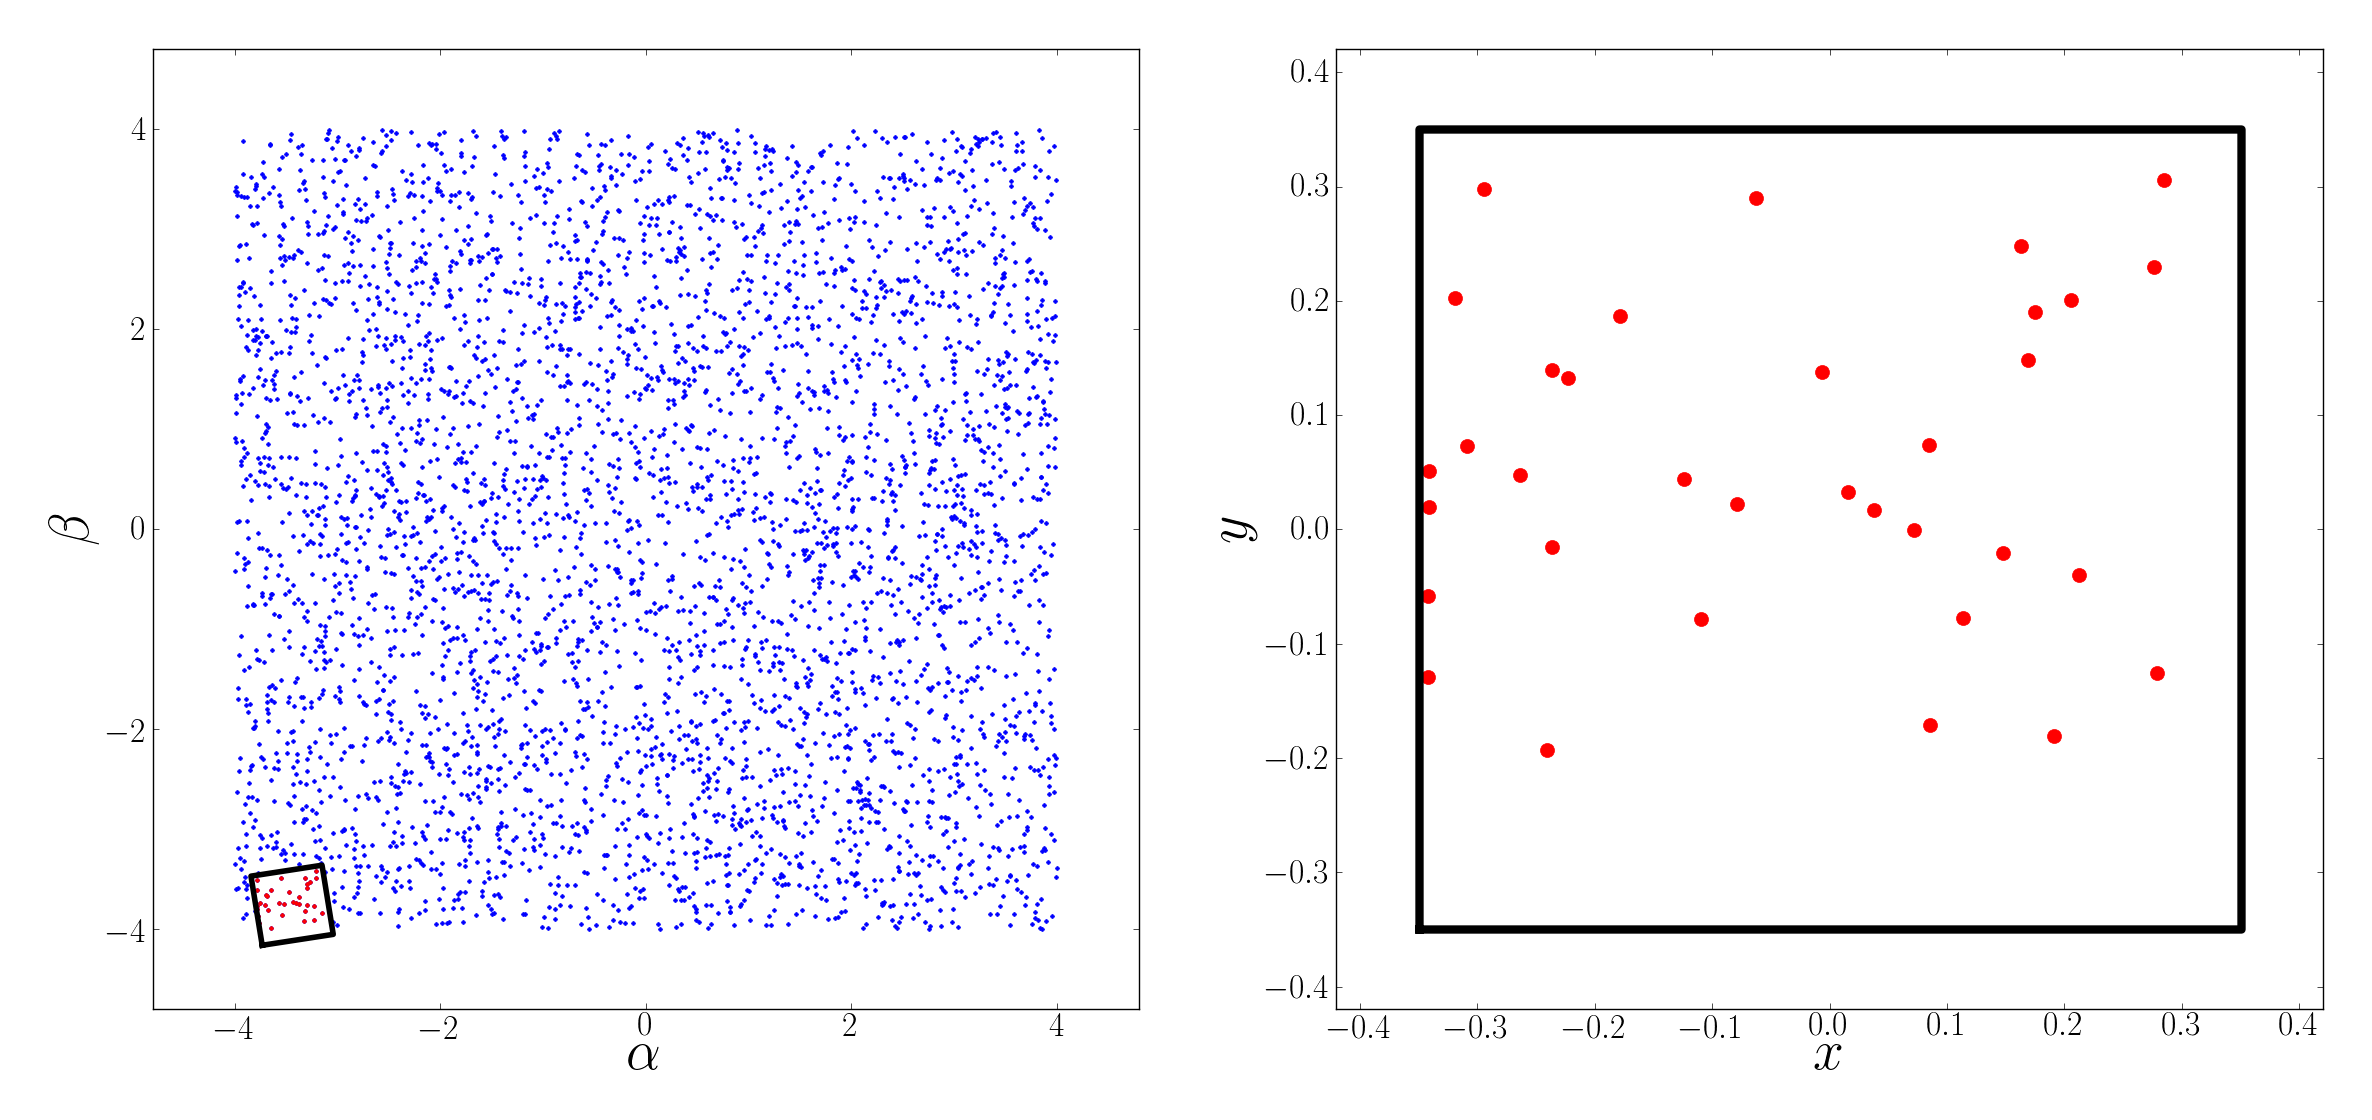
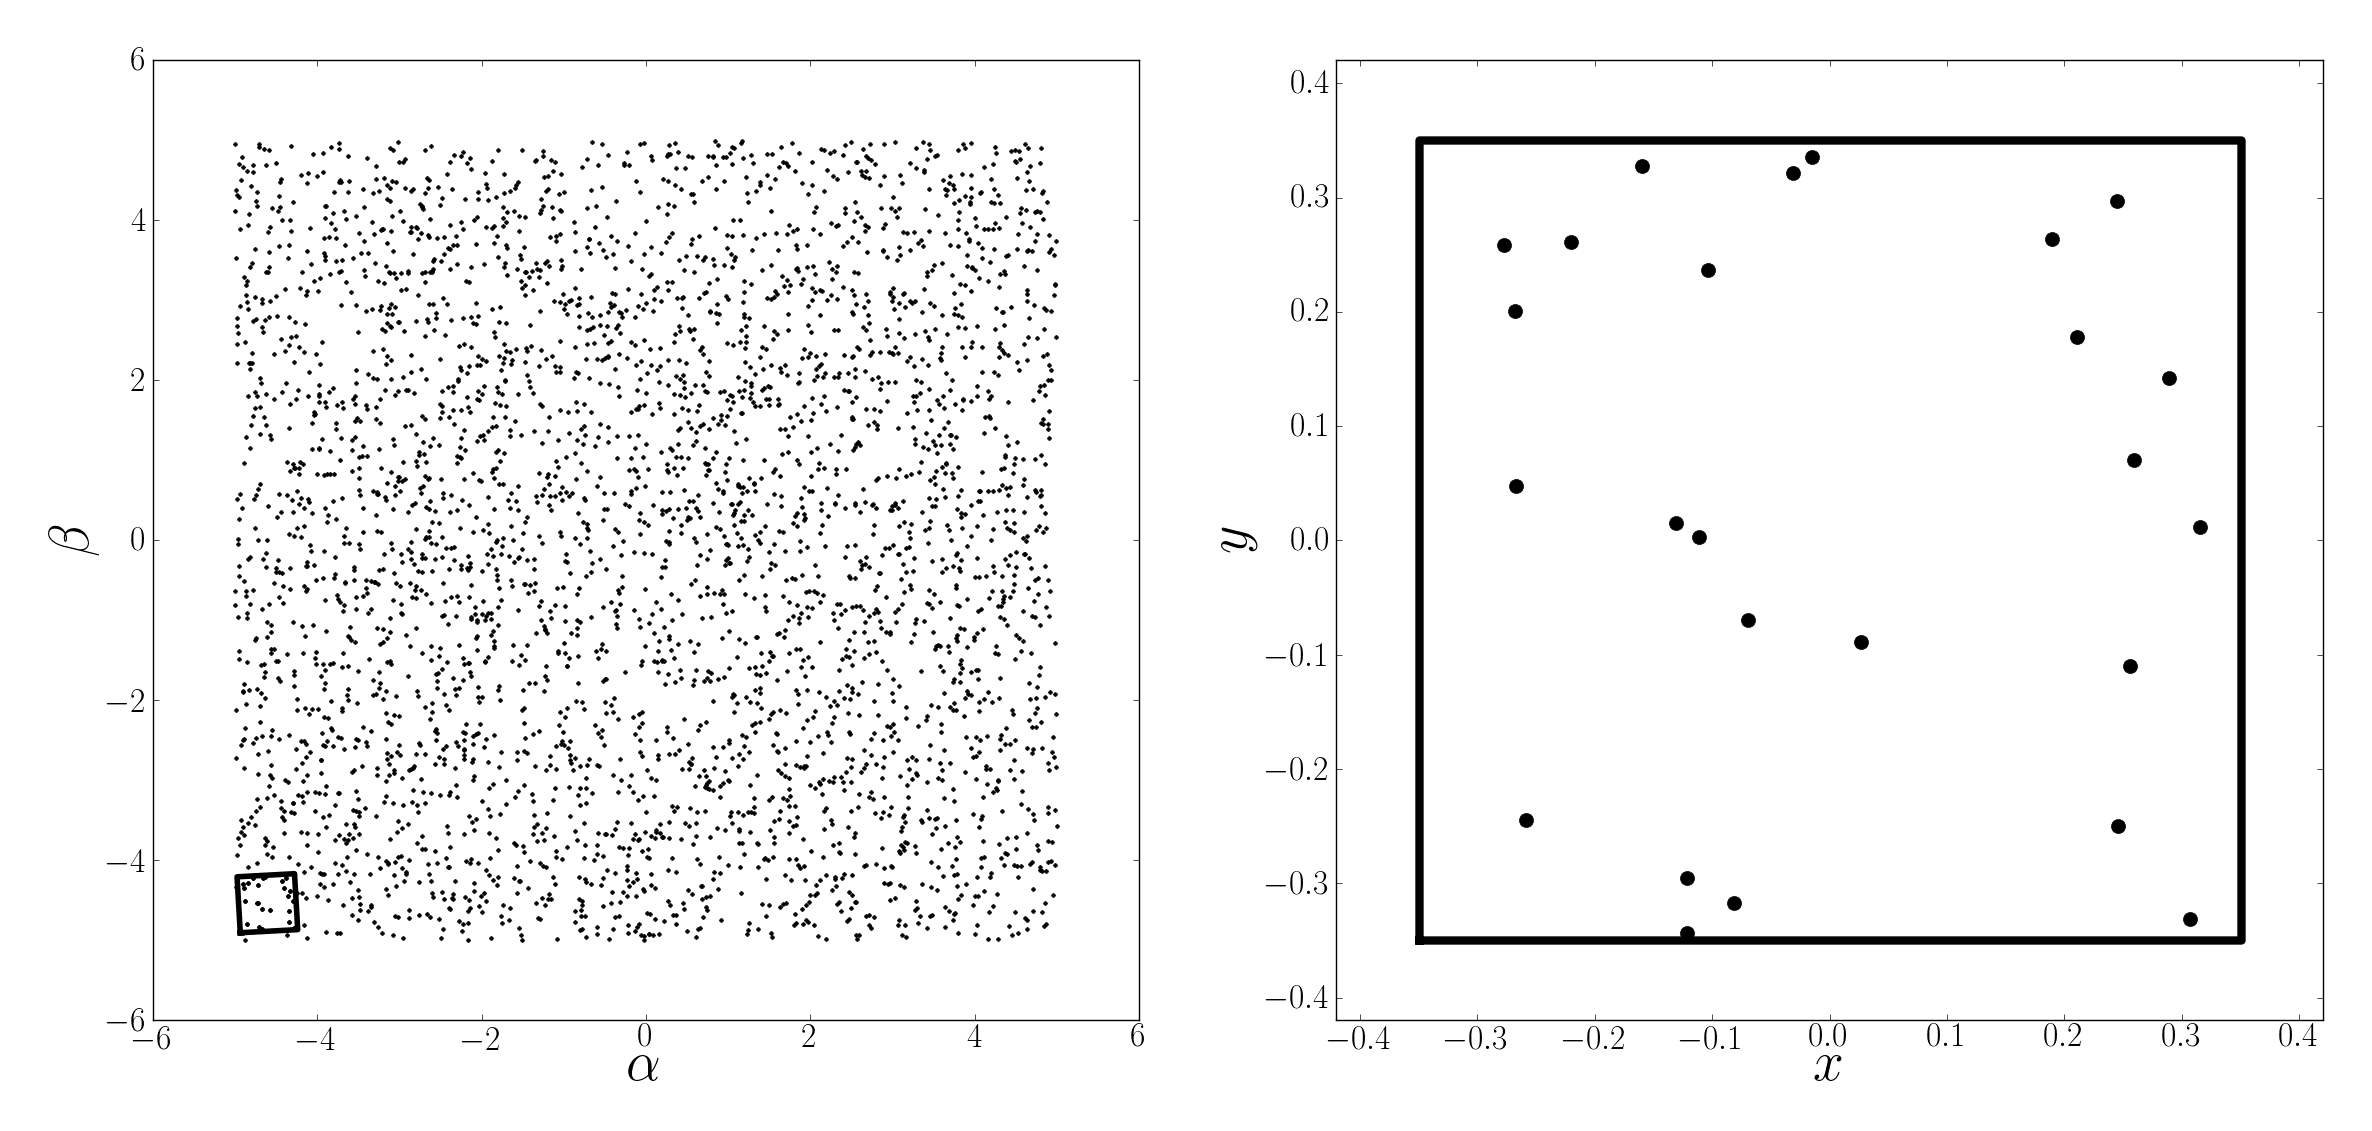
euclid: paper update
git-svn-id: svn+ssh://astrometry.net/svn/trunk/projects/euclid@18954 03a3cea6-2c03-0410-ac9b-9271b1c66c29

diff --git a/Documentation/cross_cal_paper.tex b/Documentation/cross_cal_paper.tex
@@ -24,6 +24,7 @@
 
 \newcommand{\vdag}{(v)^\dagger}
 \newcommand{\myemail}{holmes@mpia.de}
+\newcommand{\true}{\mathrm{true}}
 
 %% You can insert a short comment on the title page using the command below.
 
@@ -92,11 +93,11 @@ We first create a catalog of fake sources, both stars and galaxies, based on rea
 \begin{displaymath}
 \log_{10} \frac{dN}{d\Omega\,dm} = a + b\,m
 \end{displaymath}
-Where $a$ sets the total source density and $b_{star} = 0.25$ steller and galaxy populations reported in XX. We make no distinction between stars and galaxies in our simulations. The random number generator is given the same seed, so that the same simulated sky is produced each time the simulation is run. This ensures that the differences observed are not a result of random fluctuations. We relate source magnitudes, $m$, to source fluxes, $s$, simply by: $m = 22.5 - 2.5\log_{10}(s)$. We therefore do not consider the imaging instrument's absolute response.
+Where $a$ sets the total source density and $b_{star} = 0.25$ steller and galaxy populations reported in XX. We make no distinction between stars and galaxies in our simulations. The random number generator is given the same seed, so that the same simulated sky is produced each time the simulation is run. This ensures that the differences observed are not a result of random fluctuations. We relate source magnitudes, $m$, to source fluxes, $s$, simply by: $m = 22.5 - 2.5\log_{10}(s)$, where the 22.5 puts the fluxes in units of nanomaggies. 
 
 \begin{figure}[ht]
 \begin{center}
-\includegraphics[width=\textwidth]{survey.png}
+\includegraphics[width=\textwidth]{temp.png}
 \end{center}
 \caption{An example catalog of fake sources used within the simulations. The sources are shown at their position on a portion of the sky (left) and as a histogram of their magnitudes (right).
 \label{fig:sky}}
@@ -109,31 +110,33 @@ With a given camera pointing $(\alpha, \beta)$ and camera orientation $(\theta)$
 \begin{center}
 \includegraphics[width=\textwidth]{camera_image.png}
 \end{center}
-\caption{A single exposure of the sky with the pointing coordinates $(\alpha = 9.2^\circ, \beta = 2.2^\circ)$ and an orientation of $\theta = 175.4^\circ$. Left: Plot of the entire fake sky, with the instrument's field-of-view shown in black and the measured sources highlighted in red. Right: The distribution of the highlighted sources on the instrument's focal plane. \label{fig:camera}}
+\caption{A single exposure of the fake sky. Left: Plot of the entire fake sky, with the instrument's field-of-view shown. Right: The resultant distribution of the highlighted sources on the instrument's focal plane. \label{fig:camera}}
 \end{figure}
 
-\subsubsection{Catalog to Measured Counts Conversion}
-For a measurement $(i)$ the counts recorded from a source ($k$) depends on true instrument response ($f(\vec{q}_{true})$), which is a function of focal plane position $(\vec{x_i})$, and the source's true flux ($s$): 
+\subsubsection{Measurement Model}
+For a measurement $i$ the counts recorded from a source $k$ depends on true instrument response $f_{\true}$, which is a function of focal plane position $\vec{x_i}$, and the source's true flux $s$: 
 
 \begin{displaymath}
-c_i = f(\vec{x_i} | \vec{q}_{true}) . s_{k} + e_{i}
+c_i = f_{\true}(\vec{x_i}) \, s_{k, \true} + e_{i}
 \end{displaymath}
 
-\noindent{}An error, drawn from the Normal Distribution $N(e|0,{\sigma_i}^2)$, is also introduced to the measurement. In this analysis, we do not consider temporal variations in the instrument's response. 
+\noindent{}An error, drawn from the Normal Distribution $N(e|0,{\sigma_\true}^2)$, is also introduced to the measurement. In this analysis, we do not consider temporal variations in the instrument's response. 
 
 \subsubsection{Noise Model}
 \label{sec:noise_model}
-We assume that the Euclid exposures will be background limited and that, for systematic reasons, we will hit an upper limit on the signal-to-noise for bright sources. We assume that the uncertainty variance on the counts are:
-
+We assume that the Euclid exposures will be background limited and that, for systematic reasons, we will hit an upper limit on the signal-to-noise for bright sources. We complicate the model by applying an extra term to the count's uncertainty variance, which we do not take into account in our analysis:
 \begin{displaymath}
-\sigma_{{ass}}^{2} = \alpha^{2} + \eta^{2}\, c^{2} 
+\sigma_{i, \true}^{2} = (1 + \epsilon_k) \, \alpha^{2} + \eta^{2}\, [ f_\true(\vec{x_i}) \, s_{k, \true} ]^2
+\end{displaymath}
+\noindent{}where $\epsilon$ is a random number, in the range [0.0, $\epsilon_{max}$), generated for each measurement $i$. 
+
+We do not take into account this final term in our analysis and we therefoer assume that the uncertainty variance on the counts are:
+\begin{displaymath}
+\sigma_{{i}}^{2} = \alpha^{2} + \eta^{2}\, c^{2}_i
 \end{displaymath}
 \noindent{}where $\alpha$ and $\eta$ are both constants. In fact, we complicate the model by applying an extra term to the count's uncertainty variance, which we do not take into account in our analysis: 
 
-\begin{displaymath}
-\sigma_{{act}}^{2} = (1 + \epsilon) \,\alpha^{2} + \eta^{2}\, c^{2} 
-\end{displaymath}
-\noindent{}where $\epsilon$ is a random number, in the range [0.0, $\epsilon_{max}$), generated for each measurement $i$. An example of the assumed compared to the true uncertainty variances is shown in Fig. \ref{fig:invvar}.
+An example of the assumed compared to the true uncertainty variances is shown in Fig. \ref{fig:invvar}.
 
 \begin{figure}[ht]
 \begin{center}
@@ -143,7 +146,7 @@ We assume that the Euclid exposures will be background limited and that, for sys
 \end{figure}
 
 \subsubsection{Instrument Response Model}
-We simulate the instrument response $f(\vec{x_i} | \vec{q}_{true})$ variations on both large and small scales. We model large scale structure, such as the residual from a flat-field calibration source, as a second order polynomial. We model small scale variations in the instrument response with XX sine and cosine contributions. We intentionally do not for the instrument response with a model of the same form, instead we fit with a XX order polynomial only. 
+We simulate the instrument response $f_\true(\vec{x_i} | \vec{q}_{\true})$ variations on both large and small scales. We model large scale structure, such as the residual from a flat-field calibration source, as a second order polynomial. We model small scale variations in the instrument response with XX sine and cosine contributions. We intentionally do not for the instrument response with a model of the same form.
 
 \subsection{Cross-Calibrating the Source Dataset}
 The next step is to calibrate the simulated dataset generated for the survey being investigated. We consider the same cross-calibration procedure used with a number of ground based surveys, such as SDSS XX. This cross-calibration, termed ``ubercalibration´´ in SDSS terminology is an iterative procedure with two sub-steps: (i) the source fluxes are refined based on the latest instrument response estimate (\textit{s\_step}) and (ii) the instrument response is then refined based on the latest star flux estimates (\textit{q\_step}). We iterate these steps until the solution converges. There is a degeneracy in the problem, as both the true value of the instrument response and the source magnitudes are unknown. With this method we are therefore only able to constrain the relative instrument response. We could not, for example, know if the sources are fainter or if the instrument response is lower. This is not an issue though, as absolute standards are always used to constrain the absolute instrument response. We define a relative instrument response with a set of parameters $\vec{q}$. The individual source measurements are defined as $c_i$ (``counts''), where each $i$ corresponds to a exposure number $n$, a specific star ($k$) and a focal plane position $\vec{x}$.
@@ -152,12 +155,12 @@ The next step is to calibrate the simulated dataset generated for the survey bei
 \begin{displaymath}
 c_i = f(\vec{x_i} | \vec{q}) . s_{k} + e_{i}
 \end{displaymath}
-where $s_k$ is the true flux from star $k$ and our error is drawn from the Normal Distribution $e_{i} = N(e|0,{\sigma_i}^2)$.
+where $s_k$ is a model flux for source $k$ and the error $e_i$ is drawn from the Normal Distribution $N(e|0,{\sigma_i}^2)$. We model the instrument response as a XX order polynominal. 
 
 \noindent{}The two steps in the cross-calibration procedure, called the \textit{s\_step} and the \textit{q\_step}, are detailed in the following two sections:
 
 \subsubsection{Source Flux Refinement (\textit{s\_step})}
-The flux estimates of each source, $s_k$, are considered individually. At each \textit{s\_step} we can refine a sources's flux estimate by minimizing the error function with the latest instrument response parameters:
+The model fluxes of each source, $s_k$, are considered individually. At each \textit{s\_step} we can refine a sources's flux estimate by minimizing the error function with the latest instrument response parameters:
 
 \begin{displaymath}
 \chi^2_{k} = \sum_{i \in \mathcal{O}(k)} \frac{(c_i-f_{i}s_{k})^2}{{\sigma_i}^2}
@@ -256,6 +259,34 @@ We can draw a strong conclusion from these simple survey strategies: small and r
 \includegraphics[width=\textwidth]{fit_example.png}
 \end{center}
 \caption{The fitted flat field compared to the actual flat field found with Strategy D. \label{fig:D}}
+\end{figure}
+
+
+\begin{figure}[ht]
+\begin{center}
+\includegraphics[width=\textwidth]{density_of_stars.png}
+\end{center}
+
+\end{figure}
+
+
+\begin{figure}[ht]
+\begin{center}
+\includegraphics[width=\textwidth]{epsilon_max.png}
+\end{center}
+\end{figure}
+
+
+\begin{figure}[ht]
+\begin{center}
+\includegraphics[width=\textwidth]{m_min.png}
+\end{center}
+\end{figure}
+
+\begin{figure}[ht]
+\begin{center}
+\includegraphics[width=\textwidth]{mag_at_10_sigma.png}
+\end{center}
 \end{figure}
 
 \end{document}

diff --git a/plot.py b/plot.py
@@ -105,8 +105,8 @@ def camera_image(params, camera_filename):
   #title = ur'$\alpha$ = %.1lf, $\beta$ = %.1lf, $\theta$ = %.1lf$^\circ$' % (pointing[0],pointing[1], orientation)
   #plt.suptitle(title, fontsize=fontsize)
   plt.subplot(121)
-  plt.plot(alpha,beta,'.', markersize=5)
-  plt.plot(alpha[inside_FoV],beta[inside_FoV],'r.',markersize=5)  
+  plt.plot(alpha,beta,'k.', markersize=5)
+  plt.plot(alpha[inside_FoV],beta[inside_FoV],'k.',markersize=5)  
   plt.plot(fp_alpha,fp_beta,'k', linewidth=4)
   plt.xlabel(ur'$\alpha$', fontsize=fontsize)
   plt.ylabel(ur'$\beta$', fontsize=fontsize)
@@ -123,7 +123,7 @@ def camera_image(params, camera_filename):
 
   # Plot sources on focal plane
   plt.subplot(122)
-  plt.plot(x,y,'r.', markersize=20)
+  plt.plot(x,y,'k.', markersize=20)
   plt.plot(fp_x, fp_y, 'k', linewidth=6)
   plt.xlabel(ur'$x$', fontsize=fontsize)
   plt.ylabel(ur'$y$', fontsize=fontsize)
